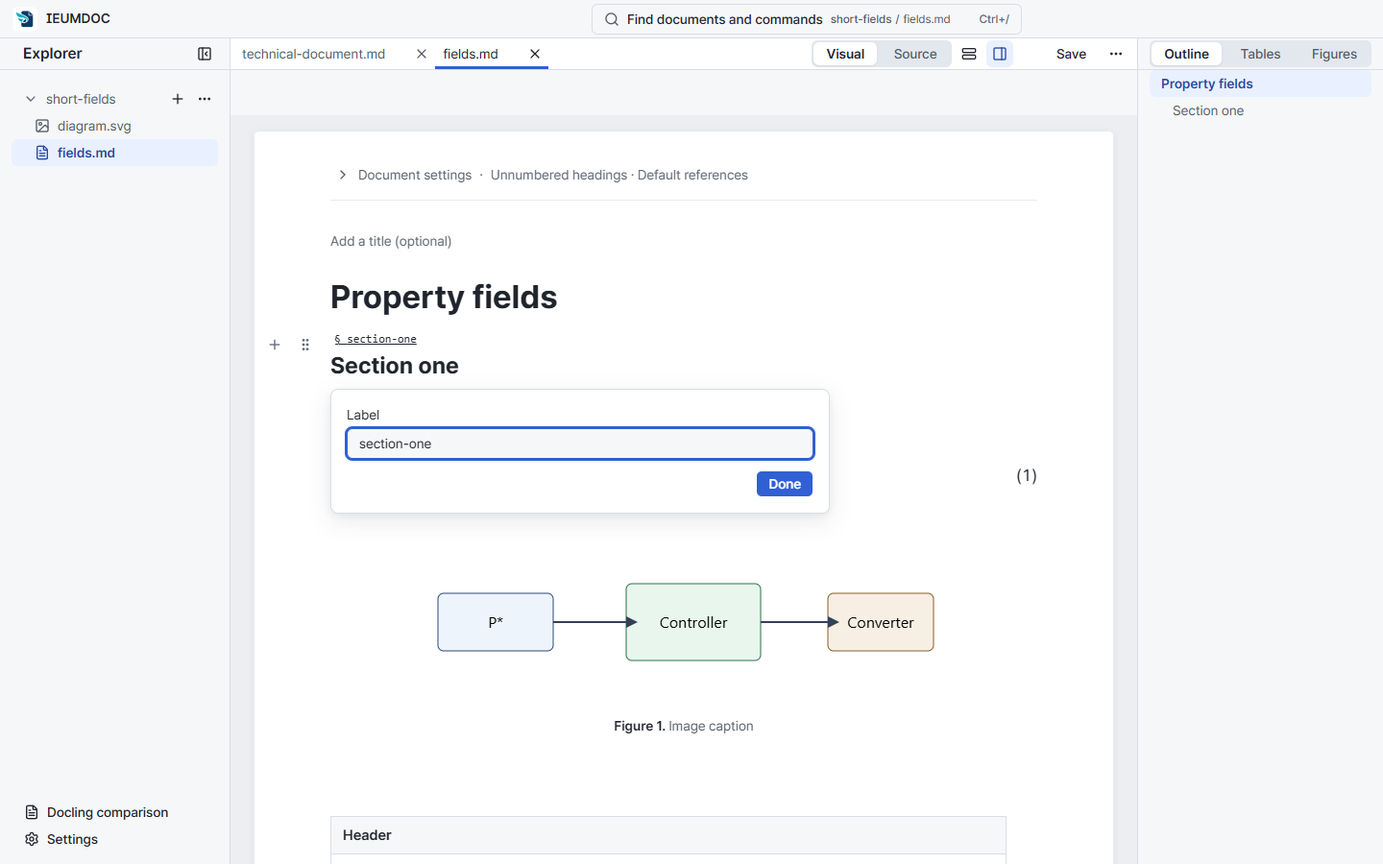
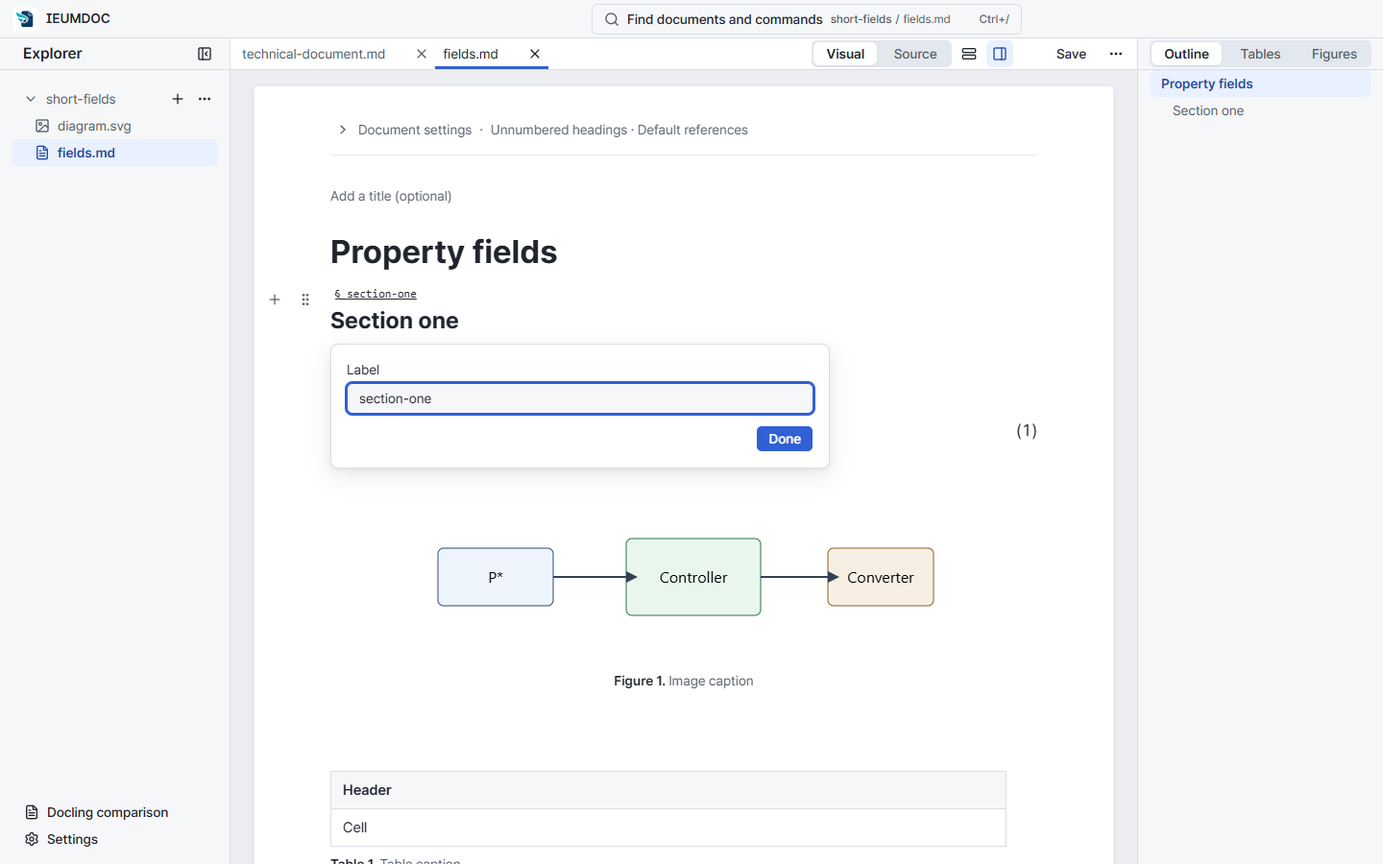
fix(editor): show unapplied draft context beside Save
Follow the owner decision on #839: replace the document banner and
reserved space with a separate focusable tab-row status. Show text at
wide widths and an icon in compact rows, with the complete explanation
on hover/focus and in the accessible name. Keep dirty status separate.

Update draft checks without weakening content or caret assertions, add
no-blank-space and tooltip coverage, and refresh contracts and captures.

AI-Agent: Codex
AI-Model: openai/gpt-6.1-sol

diff --git a/apps/editor/test/cross-reference.browser.js b/apps/editor/test/cross-reference.browser.js
@@ -243,7 +243,7 @@ async (page, { showNotifications, openPath, screenshots, expect, recoveryRecords
   await second.getByTestId('reference-target').selectOption('reference:numref:fig-a');
   await page.locator('.app-brand').click({position:{x:2,y:2}});
   expect(await page.getByTestId('reference-target').evaluateAll(nodes => nodes.map(node => node.value).sort())).toEqual(['reference:eq:eq-b','reference:numref:fig-a']);
-  await page.getByTestId('draft-notice').waitFor();
+  await page.getByTestId('draft-indicator').waitFor();
   await page.evaluate(() => {
     const instance = document.querySelector('[data-document-tab][data-active=true] .document-editor').editor;
     let target;
@@ -279,9 +279,9 @@ async (page, { showNotifications, openPath, screenshots, expect, recoveryRecords
   await cancelBroken.press('Enter');
   expect(await page.getByTestId('reference-form').count()).toBe(1);
   expect(await second.getByTestId('reference-target').inputValue()).toBe('reference:numref:fig-a');
-  expect(await page.getByTestId('draft-notice').isVisible()).toBe(true);
+  expect(await page.getByTestId('draft-indicator').isVisible()).toBe(true);
   await second.getByTestId('reference-target').press('Escape');
-  await page.getByTestId('draft-notice').waitFor({state:'detached'});
+  await page.getByTestId('draft-indicator').waitFor({state:'detached'});
   expect(await paragraph(0).evaluate(() => JSON.stringify(document.querySelector('[data-document-tab][data-active=true] .document-editor').editor.getJSON()))).toBe(appliedBeforeDraft);
   result.explicitDraftLifecycle = true;
 
@@ -321,14 +321,14 @@ async (page, { showNotifications, openPath, screenshots, expect, recoveryRecords
   expect(await page.getByTestId('reference-form').count(), 'Failed Apply keeps the form mounted').toBe(1);
   expect(await page.getByTestId('reference-target').inputValue(), 'Failed Apply retains the chosen target').toBe('reference:eq:eq-b');
   expect(await paragraph(0).evaluate(() => JSON.stringify(document.querySelector('[data-document-tab][data-active=true] .document-editor').editor.getJSON()))).toBe(splitContent);
-  expect(await page.getByTestId('draft-notice').isVisible()).toBe(true);
+  expect(await page.getByTestId('draft-indicator').isVisible()).toBe(true);
   const target = page.getByTestId('reference-target');
   expect(await target.getAttribute('aria-invalid')).toBe('true');
   const errorId = await target.getAttribute('aria-describedby');
   expect(await page.locator(`[id="${errorId}"]`).innerText()).toBe('Selection is no longer within one text block. Undo the outside edit and try again.');
   await page.evaluate(async () => (await import('/src/i18n.ts')).i18n.changeLanguage('ko'));
   await expect(page.locator(`[id="${errorId}"]`)).toHaveText('선택 범위가 한 블록 안에 있지 않습니다. 바깥 편집을 되돌리고 다시 적용하세요.');
-  await expect(page.getByTestId('draft-notice')).toHaveText('저장과 소스에는 적용된 내용만 포함됩니다. 편집 초안은 적용해야 저장됩니다.');
+  await expect(page.getByTestId('draft-indicator')).toHaveAccessibleName('미적용 초안. 저장과 소스에는 적용된 내용만 포함됩니다. 편집 초안은 적용해야 저장됩니다.');
   await page.evaluate(async () => (await import('/src/i18n.ts')).i18n.changeLanguage('en'));
   await page.evaluate(() => document.querySelector('[data-document-tab][data-active=true] .document-editor').editor.view.focus());
   await page.keyboard.press('ControlOrMeta+z');
@@ -350,7 +350,7 @@ async (page, { showNotifications, openPath, screenshots, expect, recoveryRecords
   expect(await page.getByTestId('reference-form').count()).toBe(1);
   expect(await target.inputValue()).toBe('reference:eq:eq-b');
   expect(await target.getAttribute('aria-invalid')).toBe('true');
-  expect(await page.getByTestId('draft-notice').isVisible()).toBe(true);
+  expect(await page.getByTestId('draft-indicator').isVisible()).toBe(true);
   expect(await page.locator('[data-document-tab][data-active=true] .document-editor').evaluate(el => JSON.stringify(el.editor.getJSON()))).toBe(deletedContent);
   await page.evaluate(() => document.querySelector('[data-document-tab][data-active=true] .document-editor').editor.view.focus());
   await page.keyboard.press('ControlOrMeta+z');
@@ -361,7 +361,7 @@ async (page, { showNotifications, openPath, screenshots, expect, recoveryRecords
     !(await paragraph(0).innerText()).includes('control law');
   expect(result.insertedFromSelection, 'Undo restores the retained range for successful Apply').toBe(true);
   expect(await page.getByTestId('reference-form').count()).toBe(0);
-  expect(await page.getByTestId('draft-notice').count()).toBe(0);
+  expect(await page.getByTestId('draft-indicator').count()).toBe(0);
 
   // C. A Figure reference at the caret from the slash menu.
   // End after a pointer click means the end of a *visual line*, which changes with

diff --git a/apps/editor/test/draft-notice-layout.browser.js b/apps/editor/test/draft-notice-layout.browser.js
@@ -7,7 +7,7 @@ async (page, { openPath, expect, screenshots }) => {
   await openPath(page, file);
   const active = page.locator('[data-document-tab][data-active=true]');
   const heading = active.getByRole('heading', { name: 'Section one', exact: true });
-  const notice = page.getByTestId('draft-notice');
+  const notice = page.getByTestId('draft-indicator');
   const results = [];
   const capture = async name => {
     if (screenshots) await page.screenshot({ path: `tmp/draft-notice-839/${name}.png` });
@@ -26,6 +26,16 @@ async (page, { openPath, expect, screenshots }) => {
     await active.getByTestId('label-target-edit').click();
     const input = page.getByTestId('label-target-input');
     await expect(input).toBeFocused();
+    // The viewport starts immediately below the tab row: no reserved notice row.
+    const row = page.locator('.document-tab-row').first();
+    const rowBounds = await row.boundingBox();
+    const viewport = await active.boundingBox();
+    expect(viewport.y).toBe(rowBounds.y + rowBounds.height);
+    const paperGap = await active.evaluate(el => ({
+      actual: el.querySelector('article.document').getBoundingClientRect().top - el.getBoundingClientRect().top,
+      expected: parseFloat(getComputedStyle(el.querySelector('.document-column')).paddingTop),
+    }));
+    expect(paperGap.actual).toBe(paperGap.expected);
     const original = await input.inputValue();
     const before = await geometry();
     await capture(`${width}-idle`);
@@ -45,13 +55,34 @@ async (page, { openPath, expect, screenshots }) => {
     const during = await geometry();
     await capture(`${width}-draft`);
     const bounds = await notice.boundingBox();
-    const lines = await notice.evaluate(el => {
-      const range = document.createRange(); range.selectNodeContents(el.querySelector('.message-text'));
-      return new Set([...range.getClientRects()].map(rect => rect.top)).size;
-    });
-    if (width === 640) expect(lines).toBeGreaterThan(1);
+    const short = language === 'ko' ? '미적용 초안' : 'Unapplied draft';
+    const full = language === 'ko' ? '저장과 소스에는 적용된 내용만 포함됩니다. 편집 초안은 적용해야 저장됩니다.'
+      : 'Save and Source include applied content only. Unapplied edit drafts stay unsaved until you apply them.';
+    await expect(notice).toHaveAccessibleName(`${short}. ${full}`);
+    await expect(notice.locator('.draft-indicator-label')).toBeVisible({ visible: width === 1440 });
+    await expect(notice.locator('svg')).toBeVisible({ visible: width === 640 });
+    await notice.hover();
+    await expect(page.getByTestId('draft-indicator-description')).toBeVisible();
+    await expect(page.getByTestId('draft-indicator-description')).toHaveText(full);
+    await page.mouse.move(0, 0);
+    await expect(page.getByTestId('draft-indicator-description')).toBeHidden();
+    await notice.focus();
+    await expect(page.getByTestId('draft-indicator-description')).toBeVisible();
+    await expect(page.getByTestId('draft-indicator-description')).toHaveText(full);
+    await capture(`${width}-explanation`);
+    await input.focus();
     expect(bounds.x).toBeGreaterThanOrEqual(0);
     expect(bounds.x + bounds.width).toBeLessThanOrEqual(width);
+    const save = await page.getByTestId('save').boundingBox();
+    expect(bounds.x + bounds.width).toBeLessThanOrEqual(save.x);
+    expect(bounds.y).toBeGreaterThanOrEqual(rowBounds.y);
+    expect(bounds.y + bounds.height).toBeLessThanOrEqual(rowBounds.y + rowBounds.height);
+    // Existing dirty status remains separate from the new draft indicator.
+    await expect(page.getByTestId('status').locator('.document-status-dirty')).toBeVisible();
+    const actions = await row.locator('.top-bar-group').last().evaluate(el => [...el.children].map(child => {
+      const rect = child.getBoundingClientRect(); return { left: rect.left, right: rect.right };
+    }));
+    for (let i = 1; i < actions.length; i++) expect(actions[i].left - actions[i - 1].right).toBeGreaterThanOrEqual(4);
     await page.getByTestId('view-source').click();
     await expect(notice).toBeVisible();
     const source = active.getByTestId('source-view');
@@ -63,7 +94,7 @@ async (page, { openPath, expect, screenshots }) => {
     await notice.waitFor({ state: 'detached' });
     await frame();
     const after = await geometry();
-    results.push({ width, before, typed, reverted, during, after, lines });
+    results.push({ width, before, typed, reverted, during, after });
   }
   await page.evaluate(async () => (await import('/src/i18n.ts')).i18n.changeLanguage('en'));
   expect(results, 'Draft appearance/removal must keep content and native scroll stationary').toEqual(

diff --git a/apps/editor/src/shell/DocumentActions.tsx b/apps/editor/src/shell/DocumentActions.tsx
@@ -3,9 +3,10 @@ import { useTranslation } from "react-i18next";
 import { i18n } from "../i18n.ts";
 import { operationText, type Operation } from "../operation.ts";
 import { useEffect, useState, type Ref } from "react";
-import { ArrowLeftRight, Check, Circle, Copy, Ellipsis, FileDiff, LoaderCircle, PanelRight, PanelRightOpen, RotateCcw, StretchHorizontal, TriangleAlert } from "lucide-react";
+import { ArrowLeftRight, Check, Circle, Copy, Ellipsis, FileDiff, FilePenLine, LoaderCircle, PanelRight, PanelRightOpen, RotateCcw, StretchHorizontal, TriangleAlert } from "lucide-react";
 import { Button } from "@/components/ui/button.tsx";
 import { DropdownMenu, DropdownMenuContent, DropdownMenuItem, DropdownMenuTrigger } from "@/components/ui/dropdown-menu.tsx";
+import { Tooltip, TooltipContent, TooltipTrigger } from "@/components/ui/tooltip.tsx";
 import type { DocumentView } from "./TopBar.tsx";
 
 type DocumentActionsProps = {
@@ -14,6 +15,7 @@ type DocumentActionsProps = {
   onToggleWide?(): void;
   status: Operation;
   unsaved?: boolean;
+  draftNotice?: string;
   view: DocumentView;
   /** Both views unavailable, e.g. no document or an operation in flight. */
   viewDisabled?: boolean;
@@ -40,7 +42,7 @@ type DocumentActionsProps = {
 
 /** Actions and status of this tab row's active document. */
 export function DocumentActions({
-  documentPath, wide, onToggleWide, status, unsaved = false, view, viewDisabled, onViewChange, saveDisabled,
+  documentPath, wide, onToggleWide, status, unsaved = false, draftNotice = "", view, viewDisabled, onViewChange, saveDisabled,
   onSave, onCompare, compareDisabled, onReload, reloadDisabled, onCopyPath, fileActionsRef,
   outline, onToggleOutline, outlineToggleRef, compact: groupCompact = false, onOpenRight, onMove, openRightDisabled, moveDisabled,
 }: DocumentActionsProps) {
@@ -111,6 +113,13 @@ export function DocumentActions({
         <p className="document-status status" data-testid="status" data-operation={status} role="status" title={displayStatus || undefined}>
           {displayStatus ? <><StatusIcon aria-hidden="true" className={unsaved && idle ? "document-status-dirty" : undefined} /><span className="sr-only">{displayStatus}</span></> : null}
         </p>
+        {draftNotice ? <Tooltip>
+          <TooltipTrigger render={<span tabIndex={0} role="img" className="draft-indicator" data-compact={compact || undefined}
+            data-testid="draft-indicator" aria-label={`${i18n.t("Unapplied draft")}. ${draftNotice}`} />}>
+            <FilePenLine aria-hidden="true" /><span className="draft-indicator-label" aria-hidden="true">{i18n.t("Unapplied draft")}</span>
+          </TooltipTrigger>
+          <TooltipContent side="bottom" data-testid="draft-indicator-description">{draftNotice}</TooltipContent>
+        </Tooltip> : null}
           <Button type="button" variant={saveVariant} className="top-bar-save" data-save-state={saveState}
             aria-busy={saving || undefined} onClick={onSave} disabled={saveDisabled} data-testid="save"
             title={i18n.t("Save ({{shortcut}})", { shortcut: SAVE_SHORTCUT.label })} aria-keyshortcuts={SAVE_SHORTCUT.aria}>

diff --git a/apps/editor/src/shell/MessageArea.tsx b/apps/editor/src/shell/MessageArea.tsx
@@ -4,7 +4,6 @@ import { UiError, type UiMessage } from "../ui-message.ts";
 import { useEffect, useLayoutEffect, useRef, useState } from "react";
 import type { SaveDisplayError, SaveErrorLocation } from "../save-error.ts";
 import { Button } from "@/components/ui/button.tsx";
-import { Notice } from "../ui/primitives.tsx";
 import { useNotifications, type Notification } from "../components/ui/notification-center.tsx";
 
 export const NOTICE_TIMEOUT_MS = 5000;
@@ -16,15 +15,13 @@ type MessageAreaProps = {
   notice: string;
   noticeAction?: (() => void) | null;
   warnings?: readonly { id: string; message: string }[];
-  draftNotice?: string;
-  reserveDraftNotice?: boolean;
   documentNotice?: string;
   onReveal?(): void;
   onNoticeExpired(): void;
 };
 
 /** Existing message producers register with the window center; notices keep their five-second lifetime. */
-export function MessageArea({ error, errorCause = error, noticeCause, saveError, notice, noticeAction = null, warnings = [], draftNotice = "", reserveDraftNotice = false, documentNotice = "", onReveal, onNoticeExpired }: MessageAreaProps) {
+export function MessageArea({ error, errorCause = error, noticeCause, saveError, notice, noticeAction = null, warnings = [], documentNotice = "", onReveal, onNoticeExpired }: MessageAreaProps) {
   useTranslation();
   const expire = useRef(onNoticeExpired);
   expire.current = onNoticeExpired;
@@ -46,11 +43,7 @@ export function MessageArea({ error, errorCause = error, noticeCause, saveError,
   });
   for (const warning of warnings) items.push({ ...warning, severity: "warning", testId: "writeability-warning", reveal: onReveal });
   useNotifications(items);
-  // The translated copy measures its own wrapping even while hidden. Reserving it keeps
-  // both Visual and Source stationary without covering document controls or first lines.
-  return draftNotice || reserveDraftNotice ? <div className="message-area" data-testid="message-area" data-reserved={!draftNotice || undefined} aria-hidden={!draftNotice || undefined}>
-    <Notice className="message" data-testid={draftNotice ? "draft-notice" : undefined}><span className="message-text">{draftNotice || i18n.t("Save and Source include applied content only. Unapplied edit drafts stay unsaved until you apply them.")}</span></Notice>
-  </div> : null;
+  return null;
 }
 
 // Translation changes presentation, never the identity of an unresolved cause.

diff --git a/apps/editor/src/styles.css b/apps/editor/src/styles.css
@@ -573,7 +573,7 @@ button {
 }
 
 /* Each mounted tab keeps its native scroll position, including while hidden. Its viewport
- * starts below tabs/messages; the native scrollbar stays at the window's right edge only
+ * starts below tabs; the native scrollbar stays at the window's right edge only
  * below that line. Insets keep content between the independent Sidebar/Document panel. */
 .document-scroll {
   position: fixed;
@@ -853,10 +853,25 @@ button {
   gap: var(--space-1);
 }
 
-/* Applied-only Save/Source scope remains visible while the active document has a draft. */
-.message-area { display: grid; gap: var(--space-2); padding: var(--space-2) var(--layout-ui-inset); border-bottom: var(--border-width) solid var(--id-color-border); background: var(--id-color-surface-subtle); }
-.message-area .message { margin: 0; padding: var(--space-1) var(--space-3); font-size: var(--font-size-sm); line-height: var(--line-height-label); }
-.message-area[data-reserved] { visibility: hidden; }
+/* Draft context is independent of the dirty dot and takes no document height. */
+.draft-indicator {
+  display: inline-flex;
+  align-items: center;
+  justify-content: center;
+  flex-shrink: 0;
+  min-height: var(--size-control-compact);
+  padding-inline: var(--space-1);
+  border-radius: var(--id-radius-md);
+  color: var(--id-color-text-muted);
+  font-size: var(--font-size-xs);
+  line-height: var(--line-height-meta);
+  white-space: nowrap;
+}
+.draft-indicator:focus-visible { outline: none; box-shadow: var(--focus-ring-inset); }
+.draft-indicator > svg { display: none; width: var(--size-icon-slot); height: var(--size-icon-slot); }
+.draft-indicator[data-compact] { width: var(--size-control-compact); }
+.draft-indicator[data-compact] > svg { display: block; }
+.draft-indicator[data-compact] .draft-indicator-label { display: none; }
 
 .message-actions {
   display: flex;

diff --git a/apps/editor/test/inline-math-authoring.browser.js b/apps/editor/test/inline-math-authoring.browser.js
@@ -195,7 +195,7 @@ async (page, { openPath, expect, screenshots }) => {
   await editor.locator('p.paragraph', {hasText:'The current is'}).click({position:{x:4,y:4}});
   expect(await forms.count(), 'Outside focus keeps both drafts').toBe(2);
   expect(await editor.locator('.ProseMirror').evaluate(el => JSON.stringify(el.editor.getJSON()))).toBe(appliedBeforeDraft);
-  await page.getByTestId('draft-notice').waitFor({state:'visible'});
+  await page.getByTestId('draft-indicator').waitFor({state:'visible'});
   expect(await page.evaluate(() => {const e = new Event('beforeunload',{cancelable:true});window.dispatchEvent(e);return e.defaultPrevented;})).toBe(true);
   await page.getByTestId('save').click();
   await page.locator('[data-testid="status"][data-operation^="saved"]').waitFor();
@@ -242,10 +242,10 @@ async (page, { openPath, expect, screenshots }) => {
   await forms.filter({has:page.locator(`[id="${firstSourceId}"]`)}).waitFor({state:'detached'});
   expect(await forms.count(), 'Cancelling one instance keeps the other').toBe(1);
   expect(await forms.getByTestId('inline-math-source').inputValue()).toBe('uncommitted-second');
-  expect(await page.getByTestId('draft-notice').isVisible()).toBe(true);
+  expect(await page.getByTestId('draft-indicator').isVisible()).toBe(true);
   await forms.getByTestId('inline-math-source').press('Escape');
   await forms.waitFor({state:'detached'});
-  await page.getByTestId('draft-notice').waitFor({state:'detached'});
+  await page.getByTestId('draft-indicator').waitFor({state:'detached'});
   expect(await editor.locator('.ProseMirror').evaluate(el => JSON.stringify(el.editor.getJSON()))).toBe(appliedBeforeDraft);
   result.explicitDraftLifecycle = true;
 

diff --git a/apps/editor/test/link-authoring.browser.js b/apps/editor/test/link-authoring.browser.js
@@ -97,8 +97,8 @@ async (page, { openPath, screenshots, expect }) => {
   expect(await applied()).toBe(appliedBeforeDraft);
   await page.keyboard.press('Control+Quote');
   expect(await page.getByTestId('link-url').inputValue(), 'Shortcut re-entry keeps original draft').toBe('https://example.com/unapplied');
-  await page.getByTestId('draft-notice').waitFor();
-  expect(await page.getByTestId('draft-notice').innerText()).toBe('Save and Source include applied content only. Unapplied edit drafts stay unsaved until you apply them.');
+  await page.getByTestId('draft-indicator').waitFor();
+  expect(await page.getByTestId('draft-indicator').getAttribute('aria-label')).toBe('Unapplied draft. Save and Source include applied content only. Unapplied edit drafts stay unsaved until you apply them.');
   expect(await page.evaluate(() => { const event = new Event('beforeunload',{cancelable:true}); window.dispatchEvent(event); return event.defaultPrevented; })).toBe(true);
   await page.getByTestId('save').click();
   await page.locator('[data-testid="status"][data-operation^="saved"]').waitFor();
@@ -126,7 +126,7 @@ async (page, { openPath, screenshots, expect }) => {
   expect(await page.getByTestId('link-url').inputValue()).toBe('https://example.com/unapplied');
   await page.getByTestId('link-cancel').click();
   expect(await applied()).toBe(appliedBeforeDraft);
-  await page.getByTestId('draft-notice').waitFor({state:'detached'});
+  await page.getByTestId('draft-indicator').waitFor({state:'detached'});
   result.explicitDraftLifecycle = true;
 
   // Editing before a retained link must not shift Apply onto different text.

diff --git a/apps/editor/src/App.tsx b/apps/editor/src/App.tsx
@@ -280,7 +280,7 @@ function EditorApp() {
   const {
     editorRef = emptyEditorRef, document, openedPath = "", outlineStore,
     view = "visual",
-    draftActive = false, documentDirty = false, draftNotice = "",
+    draftActive = false, documentDirty = false,
     reloadDialog = false, imageChoice = null, imageReturnFocus = emptyImageRef,
   } = session ?? {};
   const busy = Boolean(operation || fileOperationPending || session?.busy || continuationPending);
@@ -1103,6 +1103,7 @@ function EditorApp() {
               compact={split}
               status={operation || (owner?.assetPending ? "adding-image" : owner?.status ?? "ready")}
               unsaved={owner?.documentDirty || owner?.draftActive}
+              draftNotice={owner?.draftNotice}
               view={owner?.view ?? "visual"}
               viewDisabled={!owner?.document || groupBusy}
               onViewChange={(next) => (next === "source" ? void owner?.showSource() : owner?.setView("visual"))}
@@ -1129,8 +1130,6 @@ function EditorApp() {
           <MessageArea
             warnings={[...(recoveryProblem ? [{ id: "recovery-storage", message: recoveryProblem }] : []),
               ...(sampleWarning ? [{ id: `sample-preparation:${start?.sampleProblem}`, message: sampleWarning }] : [])]}
-            draftNotice={draftNotice}
-            reserveDraftNotice={Boolean(document)}
             error={error} errorCause={errorCause}
             notice={notice} noticeCause={noticeCause}
             onNoticeExpired={() => setNotice("")}

diff --git a/apps/editor/test/figure-authoring.browser.js b/apps/editor/test/figure-authoring.browser.js
@@ -152,7 +152,7 @@ async (page, { openFolderPicker, openDocument, waitForEditorFocus, expect, scree
     await expect(page.getByTestId('figure-image-url')).toHaveCount(0);
     await expect(page.getByTestId('figure-enumerator')).toHaveCount(0);
     await editor.getByRole('button', {name:'Fixed',exact:true}).click();
-    await expect(page.getByTestId('draft-notice')).toBeVisible();
+    await expect(page.getByTestId('draft-indicator')).toBeVisible();
     await page.getByTestId('figure-apply').click();
     await expect(page.getByTestId('figure-enumerator')).toHaveAttribute('aria-invalid','true');
     expect(await snapshot()).toEqual(beforeShortcut);
@@ -165,7 +165,7 @@ async (page, { openFolderPicker, openDocument, waitForEditorFocus, expect, scree
     await page.getByTestId('figure-apply').click();
     await expect(editor).toHaveCount(0);
     expect(await image.getAttribute('src')).toContain('diagram.svg');
-    await expect(page.getByTestId('draft-notice')).toBeVisible();
+    await expect(page.getByTestId('draft-indicator')).toBeVisible();
     await image.dblclick();
     await expect(page.getByTestId('figure-file-name')).toBeVisible();
     expect(await page.getByTestId('figure-file-name').inputValue()).toBe('Pending filename');

diff --git a/apps/editor/test/figure-draft-race.browser.js b/apps/editor/test/figure-draft-race.browser.js
@@ -45,7 +45,7 @@ async (page, { openPath, expect, reloadDocument }) => {
   const typedAlt = 'Alt text entered after Figure selection moved.';
   await page.getByTestId('figure-alt').fill(typedAlt);
   const draftActive = await page.locator('[data-document-tab][data-active=true]').getByTestId('figure-draft-status').isVisible() &&
-    await page.getByTestId("draft-notice").isVisible();
+    await page.getByTestId("draft-indicator").isVisible();
   const altStayedInField = await page.getByTestId('figure-alt').inputValue() === typedAlt &&
     await figure.getByTestId('figure-image').getAttribute('alt') !== typedAlt;
   await page.getByTestId('figure-apply').click();
@@ -100,7 +100,7 @@ async (page, { openPath, expect, reloadDocument }) => {
     try {
       await page.getByTestId('figure-apply').click();
       await started;
-      if (!await page.getByTestId('draft-notice').isVisible()) throw new Error('Validation lost the draft guard');
+      if (!await page.getByTestId('draft-indicator').isVisible()) throw new Error('Validation lost the draft guard');
       if (leave === 'delete') {
         await page.locator('[data-document-tab][data-active=true] .document-editor').evaluate(el => {
           const {state, view} = el.editor;

diff --git a/apps/editor/src/locales.ts b/apps/editor/src/locales.ts
@@ -1,5 +1,6 @@
 /** Bundled UI resources. English source phrases are translation keys, never operation IDs. */
 export const en = {
+  "Unapplied draft": "Unapplied draft",
   "This label cannot name a reference target. Choose another label.": "This label cannot name a reference target. Choose another label.",
   "The label and its references cannot be preserved. Check the label and reference targets.": "The label and its references cannot be preserved. Check the label and reference targets.",
   "Label must be a string.": "Label must be a string.",
@@ -777,6 +778,7 @@ export const en = {
 } as const;
 
 export const ko: Record<keyof typeof en, string> = {
+  "Unapplied draft": "미적용 초안",
   "This label cannot name a reference target. Choose another label.": "이 레이블은 참조 대상을 지정할 수 없습니다. 다른 레이블을 입력하세요.",
   "The label and its references cannot be preserved. Check the label and reference targets.": "레이블과 참조의 연결을 보존할 수 없습니다. 레이블과 참조 대상을 확인하세요.",
   "Label must be a string.": "레이블은 문자열이어야 합니다.",

diff --git a/apps/editor/test/editor-shell.browser.js b/apps/editor/test/editor-shell.browser.js
@@ -172,11 +172,11 @@ async page => {
     await page.getByTestId('equation-latex').fill('x + 1');
     result.equationDraftInBlock = await page.locator('[data-document-tab][data-active=true]').getByTestId('equation-draft-status').isVisible();
     result.saveAvailableDuringDraft = await page.getByTestId('save').isEnabled();
-    result.draftScopeExplained = await page.getByTestId('draft-notice').isVisible();
+    result.draftScopeExplained = await page.getByTestId('draft-indicator').isVisible();
     await settings.click();
     await page.keyboard.press('Escape'); await settingsDialog.waitFor({state:'hidden'});
     result.settingsKeepsEquationDraft = await page.getByTestId('equation-latex').inputValue() === 'x + 1' &&
-      await page.getByTestId('draft-notice').isVisible();
+      await page.getByTestId('draft-indicator').isVisible();
     await fileActions.click();
     await page.getByRole('menuitem', {name:'Reload', exact:true}).click();
     await page.getByRole('dialog', {name:'Discard local changes?', exact:true}).waitFor();
